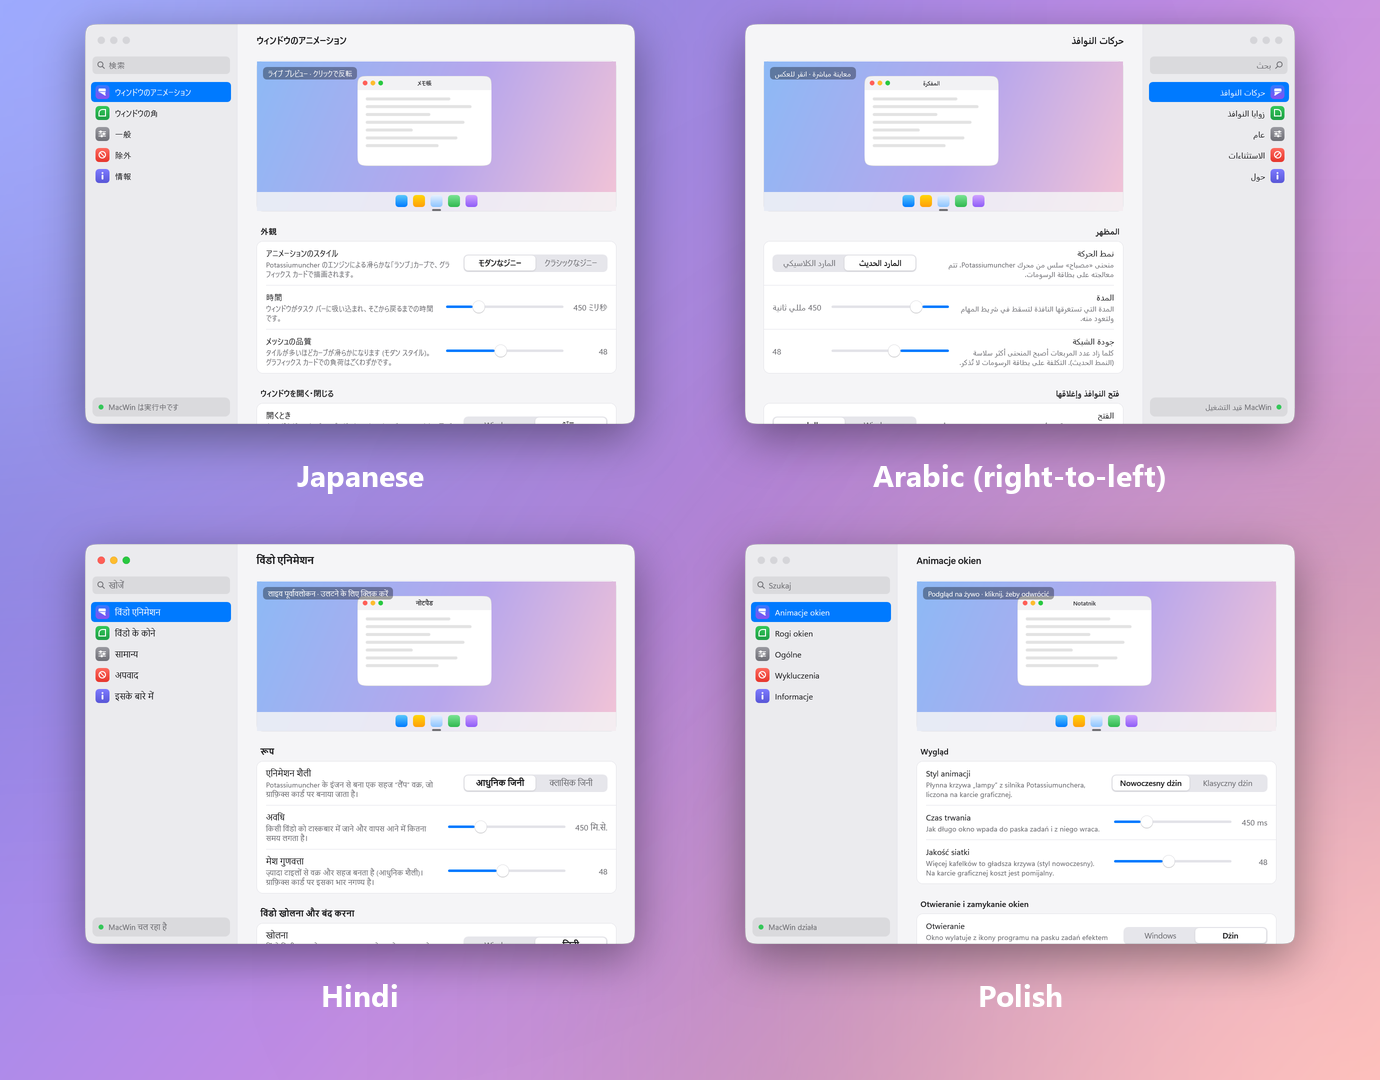
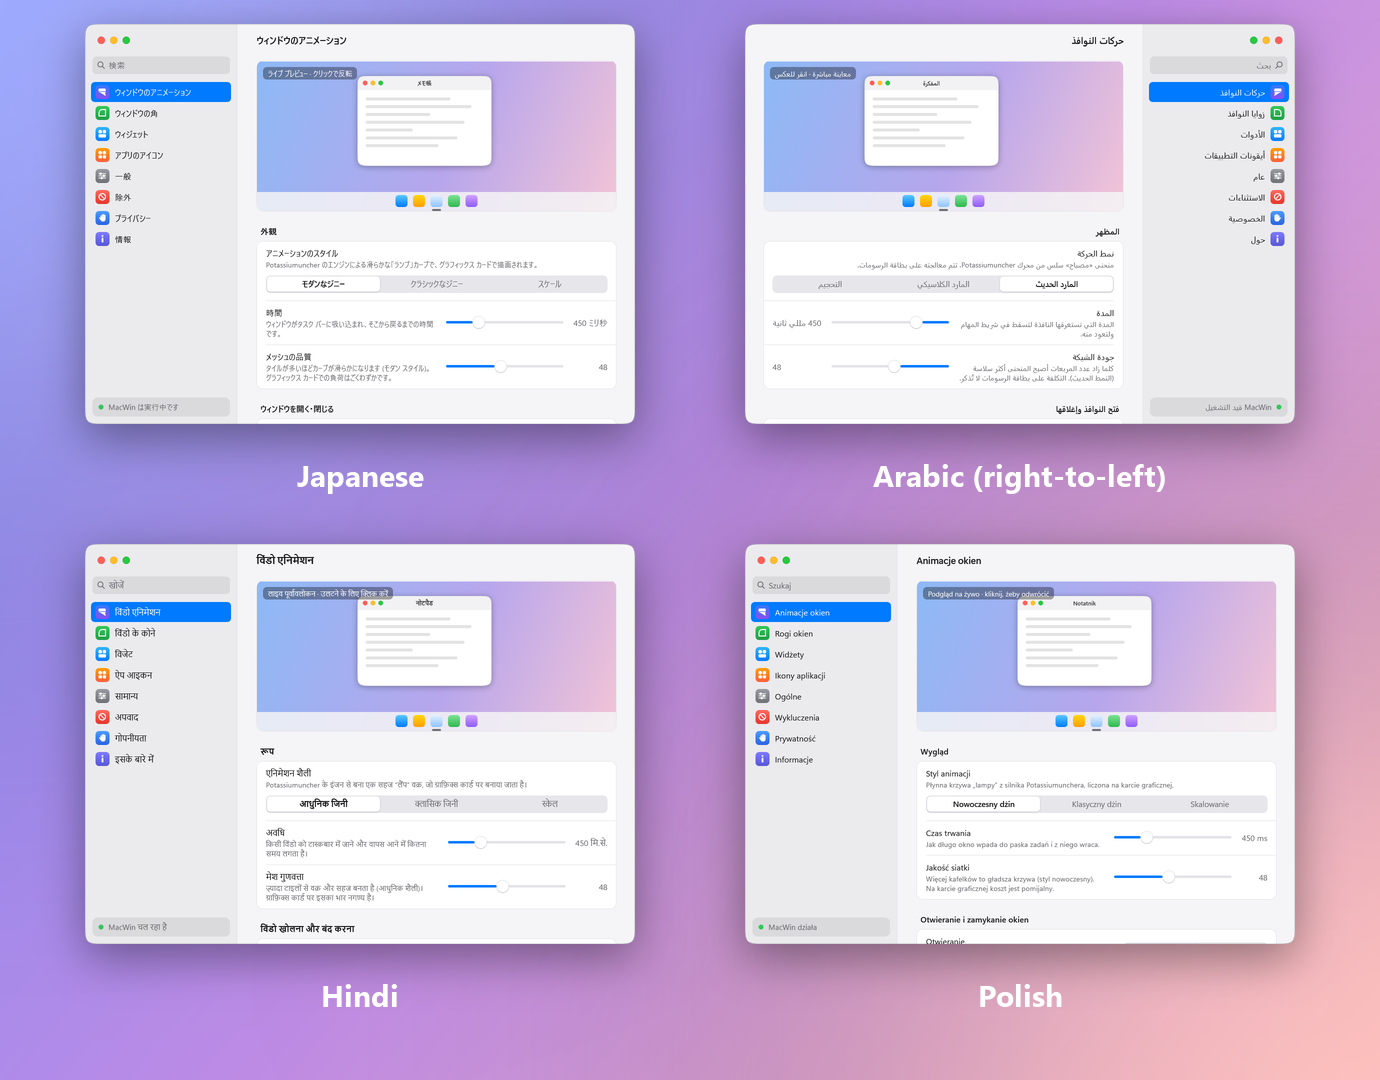
Docs: README with every feature, new screenshots
The README still described MacWin 1.0: no Privacy page, no App icons,
and the Polish one not even the Scale style. Both list every feature
now, with new screenshots of the settings (animations, corners, app
icons, privacy), the desktop widgets, the languages and a new social
preview, all made by tools/media/compose.py from --snapshot output.

--snapshot no longer lets the App icons page refresh shortcuts: a
snapshot only draws the window and must not change the PC.

diff --git a/tools/media/compose.py b/tools/media/compose.py
@@ -2,7 +2,11 @@
 
     MacWin.Settings.exe --snapshot <shots>\\en-light --lang en --theme light --transparent
     (also en-dark --theme dark, and ja, ar, hi, pl light), --export-icon <shots>\\icon.png
+    MacWin.exe --widget-snapshot <shots>\\widgets-dark --lang en --theme dark
     python tools/media/compose.py <shots>
+
+Take the snapshots while MacWin is running (the sidebar shows its state), with a few
+icons given to programs on the App Icons page.
 """
 import os
 import sys
@@ -73,6 +77,19 @@ for theme, stops, blobs, page, name in (("en-light", LIGHT, LIGHT_BLOBS, 0, "set
     with_shadow(canvas, win, (1300 - win.width) // 2, (980 - win.height) // 2 - 14)
     save(canvas, name)
 
+# Pages of their own: App Icons (dark, its list of icons) and Privacy (light).
+for theme, stops, blobs, file, name in (("en-dark", DARK, DARK_BLOBS, "page3-end.png", "app-icons.png"),
+                                        ("en-light", LIGHT, LIGHT_BLOBS, "page6.png", "privacy.png")):
+    win = Image.open(os.path.join(SHOTS, theme, file)).convert("RGBA")
+    canvas = gradient(1300, 980, stops, blobs).convert("RGBA")
+    with_shadow(canvas, win, (1300 - win.width) // 2, (980 - win.height) // 2 - 14)
+    save(canvas, name)
+
+# Desktop widgets: the first rows of the widget sheet (clock, calendar, weather, gauges, note).
+sheet = Image.open(os.path.join(SHOTS, "widgets-dark", "widgets.png")).convert("RGBA")
+k = sheet.width / 1526   # the sheet's rows, measured at 1526 px wide
+save(sheet.crop((0, 0, sheet.width, int(1010 * k))), "widgets.png")
+
 # Four languages at once (Japanese, Arabic, Hindi, Polish).
 # English labels: Pillow without libraqm cannot shape Arabic or Devanagari.
 langs = [("ja", "Japanese"), ("ar", "Arabic (right-to-left)"), ("hi", "Hindi"), ("pl", "Polish")]
@@ -103,7 +120,7 @@ big_icon = icon.resize((150, 150), Image.LANCZOS)
 canvas.alpha_composite(big_icon, (70, 120))
 d = ImageDraw.Draw(canvas)
 d.text((66, 290), "MacWin", font=font("segoeuib.ttf", 92), fill=(255, 255, 255, 255))
-d.text((72, 410), "macOS-style genie animations", font=font("segoeui.ttf", 32), fill=(230, 230, 245, 255))
-d.text((72, 452), "and window corners for Windows 11", font=font("segoeui.ttf", 32), fill=(230, 230, 245, 255))
+d.text((72, 410), "The macOS look for Windows 11:", font=font("segoeui.ttf", 32), fill=(230, 230, 245, 255))
+d.text((72, 452), "genie, corners, widgets, app icons", font=font("segoeui.ttf", 32), fill=(230, 230, 245, 255))
 d.text((72, 530), "Free & open source  ·  11 languages", font=font("segoeuib.ttf", 26), fill=(170, 190, 255, 255))
 save(canvas, "social-preview.png")

diff --git a/settings-app/App.xaml.cs b/settings-app/App.xaml.cs
@@ -13,6 +13,9 @@ public partial class App : Application
     private Mutex? _single;
     private static DateTime _lastReport = DateTime.MinValue;
 
+    /// <summary>--snapshot: the window only draws its pages; nothing on the PC is changed.</summary>
+    public static bool Snapshot { get; private set; }
+
     public static string LogPath { get; } = Path.Combine(
         Environment.GetFolderPath(Environment.SpecialFolder.LocalApplicationData), "MacWin", "settings.log");
 
@@ -64,6 +67,7 @@ public partial class App : Application
         }
 
         string? snapshotDir = ArgValue(e.Args, "--snapshot");
+        Snapshot = snapshotDir is not null;
         string? page = ArgValue(e.Args, "--page");
         // Snapshots run beside an open settings window; everything else is one window.
         if (snapshotDir is null)

diff --git a/settings-app/Pages/AppIconsPage.xaml.cs b/settings-app/Pages/AppIconsPage.xaml.cs
@@ -104,7 +104,7 @@ public partial class AppIconsPage : UserControl
             _programs = await AppIconActions.ProgramsAsync();
             Rebuild();
             // An update of a program may have put back its shortcuts with the old icon.
-            var choices = _model?.AppIcons == true ? _model.AppIconChoices.ToList() : [];
+            var choices = _model?.AppIcons == true && !App.Snapshot ? _model.AppIconChoices.ToList() : [];
             if (choices.Count > 0 && await AppIconActions.Sta(() => ApplyShortcuts(choices)) > 0)
                 TaskbarBar.Visibility = Visibility.Visible;
         }

diff --git a/README.pl.md b/README.pl.md
@@ -4,10 +4,11 @@
 
 # MacWin
 
-**Efekt dżina z macOS i zaokrąglone rogi okien (squircle) — dla Windows 11.**
+**Wygląd macOS dla Windows 11: efekt dżina, rogi squircle, widżety na pulpicie i ikony aplikacji.**
 
-Okna wpadają do paska zadań jak dżin i wylatują z niego z powrotem, tak samo się otwierają
-i zamykają, a do tego dostają miękkie rogi jak w macOS. Lekki, darmowy i open source.
+Okna wpadają do paska zadań jak dżin i wylatują z niego z powrotem, a do tego dostają miękkie
+rogi jak w macOS. Pulpit dostaje widżety z macOS, programy — wybrane przez Ciebie ikony, a
+Windows wysyła mniej danych o Tobie. Lekki, darmowy i open source.
 
 [![Najnowsza wersja](https://img.shields.io/github/v/release/IMoggsYou/MacWin?style=for-the-badge&logo=github&label=wersja&color=0A84FF)](https://github.com/IMoggsYou/MacWin/releases/latest)
 [![Pobrania](https://img.shields.io/github/downloads/IMoggsYou/MacWin/total?style=for-the-badge&label=pobrania&color=34C759)](https://github.com/IMoggsYou/MacWin/releases)
@@ -30,7 +31,8 @@ i zamykają, a do tego dostają miękkie rogi jak w macOS. Lekki, darmowy i open
 
 - 🧞 **Efekt dżina** — minimalizowane okno wlewa się do swojej ikony na pasku zadań i wypływa
   z niej przy przywracaniu; rysowane na karcie graficznej płynną krzywą „lampy” (albo
-  klasycznym lejkiem).
+  klasycznym lejkiem), a cień okna leci razem z nim. Wolisz coś spokojniejszego? Efekt
+  **Skalowanie** zmniejsza okno do ikony jednym miękkim ruchem.
 - 🪟 **Otwieranie i zamykanie** okien efektem dżina, z ikony programu i do niej.
 - ↩ **Odwracanie w locie** — kliknij jeszcze raz w trakcie, a dżin zawróci dokładnie z tego
   miejsca. Win+D animuje wszystkie okna naraz.
@@ -41,11 +43,21 @@ i zamykają, a do tego dostają miękkie rogi jak w macOS. Lekki, darmowy i open
   zdjęcie, w trzech rozmiarach, jasne albo ciemne. Leżą na pulpicie pod oknami i układają
   się w siatce jak w macOS; przeciągnij je w dowolne miejsce, prawy przycisk zmienia rozmiar
   i wygląd.
+- 🎨 **Ikony aplikacji** — daj dowolnemu programowi własną ikonę: na jego oknach, w Alt+Tab,
+  na pasku zadań i w menu Start. Dodaj ikony z macOS (`.icns`), PNG, JPEG, WebP, HEIC, ICO
+  albo weź ikonę z innego programu; MacWin przycina ją do wielkości ikon Windows i sam
+  znajduje program po nazwie pliku. Zestaw ikon w stylu macOS jest w komplecie. Zapisz
+  swoje ustawienie jako **zestaw ikon**, wróć do **ikon Windows** jednym kliknięciem albo
+  usuń wszystko.
+- 🔒 **Przełączniki prywatności** — wyłącz telemetrię Windows, identyfikator reklamowy,
+  reklamy i porady w menu Start i na ekranie blokady, wyniki z internetu w wyszukiwaniu,
+  Copilota, Recall i więcej. Każda wartość jest najpierw zapisywana, a **Przywróć** cofa
+  wszystko; Windows Update, Defender, SmartScreen i zapora nie są nigdy ruszane.
 - ⚙ **Okno ustawień jak Ustawienia systemowe macOS** — podgląd na żywo, wyszukiwarka, jasny
   i ciemny motyw, wykluczenia programów.
 - 🌍 **11 języków**, wybieranych automatycznie z Windows (zobacz [Języki](#języki)).
-- 🔄 **Automatyczne aktualizacje** z GitHuba, sprawdzane sumą SHA-256 — jednym kliknięciem
-  albo w pełni automatycznie.
+- 🔄 **Automatyczne aktualizacje** z GitHuba, sprawdzane sumą SHA-256 — instalowane w tle
+  albo proponowane z krótkim „co nowego” przy otwarciu ustawień.
 - 🚀 **Startuje razem z Windows**, siedzi w obszarze powiadomień, w spoczynku nie używa
   procesora.
 - 🛡 **Bezpieczny z założenia** — nie wchodzi do procesów systemowych ani gier z anty-cheatem,
@@ -57,8 +69,17 @@ i zamykają, a do tego dostają miękkie rogi jak w macOS. Lekki, darmowy i open
 ## Zrzuty ekranu
 
 <p align="center">
-  <img src="docs/media/settings-light.png" width="49%" alt="Ustawienia MacWin, jasny motyw">
-  <img src="docs/media/settings-dark.png" width="49%" alt="Ustawienia MacWin, ciemny motyw">
+  <img src="docs/media/settings-light.png" width="49%" alt="Animacje okien: podgląd dżina na żywo i trzy style">
+  <img src="docs/media/settings-dark.png" width="49%" alt="Rogi okien w ciemnym motywie: squircle z macOS albo rogi Windows 11">
+</p>
+
+<p align="center">
+  <img src="docs/media/app-icons.png" width="49%" alt="Ikony aplikacji: ikony z macOS dla Signala, Spotify, Steama, Telegrama i VS Code">
+  <img src="docs/media/privacy.png" width="49%" alt="Prywatność: przełączniki danych diagnostycznych Windows, z kopią i przywracaniem">
+</p>
+
+<p align="center">
+  <img src="docs/media/widgets.png" width="860" alt="Widżety na pulpicie: zegary, kalendarze, pogoda, wskaźniki systemu i notatka">
 </p>
 
 ## Instalacja
@@ -82,7 +103,7 @@ i zamykają, a do tego dostają miękkie rogi jak w macOS. Lekki, darmowy i open
 | --- | --- |
 | Windows | Windows 11 (zalecany 22H2 lub nowszy), 64-bitowy **x64** |
 | Grafika | Dowolna: AMD, Intel, NVIDIA albo żadna (Direct3D 11 / WARP) |
-| Dysk | ok. 5 MB (+ .NET 10 Desktop Runtime dla okna ustawień) |
+| Dysk | ok. 20 MB, głównie dołączone ikony (+ .NET 10 Desktop Runtime dla okna ustawień) |
 | Jeszcze nieobsługiwane | Windows na ARM (komputery ze Snapdragonem) |
 
 ### Odinstalowanie
@@ -143,6 +164,8 @@ MacWin niczego nie zbiera. Łączy się z internetem tylko w dwóch sprawach:
   nie jest wysyłane i nie trzeba żadnego konta ani klucza. Część z lokalizacją wyłącza
   przełącznik w Windows (**Ustawienia → Prywatność i zabezpieczenia → Lokalizacja**).
 
+Ikony aplikacji i strona Prywatność działają w całości na Twoim komputerze.
+
 ## Pytania i odpowiedzi
 
 <details>
@@ -175,6 +198,30 @@ przy każdym logowaniu.
 
 Okna z systemowym paskiem tytułu psują się po zmianie kształtu. MacWin daje squircle
 dżinowi, swojemu oknu i programom, które same rysują pasek tytułu.
+</details>
+
+<details>
+<summary><b>Jak przywrócić programowi jego własną ikonę?</b></summary>
+
+W **Ustawienia → Ikony aplikacji** wybierz **Brak programu** obok ikony albo naciśnij
+**Użyj ikon Windows**, żeby wszystkie programy dostały z powrotem swoje ikony (Twoje ikony
+zostają na liście). Przypięte ikony na pasku zadań odświeżają się po **Uruchom ponownie
+Eksplorator**.
+</details>
+
+<details>
+<summary><b>Czy strona Prywatność zepsuje Windows Update albo antywirusa?</b></summary>
+
+Nie. Ma tylko przełączniki telemetrii, reklam i podobnych funkcji, nigdy Windows Update,
+Microsoft Defendera, SmartScreena, zapory ani UAC. Każda wartość jest zapisywana przed
+zmianą, a **Przywróć** odtwarza dokładnie to, co było.
+</details>
+
+<details>
+<summary><b>Czy działa z kilkoma monitorami i automatycznie ukrywanym paskiem zadań?</b></summary>
+
+Tak. Ukryty pasek zadań wysuwa się, gdy okno się minimalizuje; przy kilku monitorach dżin
+może celować w pasek zadań na monitorze okna (Ustawienia → Animacje okien).
 </details>
 
 ## Budowanie ze źródeł

diff --git a/README.md b/README.md
@@ -4,10 +4,11 @@
 
 # MacWin
 
-**The macOS genie effect and squircle window corners — for Windows 11.**
+**The macOS look for Windows 11: the genie effect, squircle corners, desktop widgets and app icons.**
 
-Windows fall into the taskbar like a genie and fly back out, open and close the same way,
-and get soft macOS-style corners. Light, free and open source.
+Windows fall into the taskbar like a genie and fly back out, and get soft macOS-style corners.
+Your desktop gets macOS widgets, your programs get the icons you like, and Windows gets a
+little quieter about your data. Light, free and open source.
 
 [![Latest release](https://img.shields.io/github/v/release/IMoggsYou/MacWin?style=for-the-badge&logo=github&label=release&color=0A84FF)](https://github.com/IMoggsYou/MacWin/releases/latest)
 [![Downloads](https://img.shields.io/github/downloads/IMoggsYou/MacWin/total?style=for-the-badge&color=34C759)](https://github.com/IMoggsYou/MacWin/releases)
@@ -41,10 +42,21 @@ and get soft macOS-style corners. Light, free and open source.
 - 🗓 **Desktop widgets** — a clock, a calendar, the weather, system gauges, a note and a
   photo, in three sizes, light or dark. They stay on the desktop under your windows and
   snap to a grid like on macOS; drag them anywhere, right-click for size and look.
+- 🎨 **App icons** — give any program an icon of your own: on its windows, in Alt+Tab, on
+  the taskbar and in the Start menu. Drop in macOS `.icns`, PNG, JPEG, WebP, HEIC, ICO or
+  take one from another program; MacWin trims it to the size of Windows icons and finds
+  the program from the file name. A set of macOS-style icons comes included. Save your
+  setup as an **icon set**, switch back to the **Windows icons** in one click, or remove
+  everything.
+- 🔒 **Privacy switches** — turn off Windows telemetry, the advertising ID, ads and tips in
+  Start and on the lock screen, web results in search, Copilot, Recall and more. Every value
+  is backed up first and **Restore** undoes it all; Windows Update, Defender, SmartScreen
+  and the firewall are never touched.
 - ⚙ **A settings window like macOS System Settings** — live preview, search, light and
   dark mode, per-app exclusions.
 - 🌍 **11 languages**, picked automatically from Windows (see [Languages](#languages)).
-- 🔄 **Automatic updates** from GitHub, verified with SHA-256 — one click, or fully automatic.
+- 🔄 **Automatic updates** from GitHub, verified with SHA-256 — installed in the background,
+  or offered with a short "what's new" when you open the settings.
 - 🚀 **Starts with Windows**, sits in the notification area, uses no CPU while idle.
 - 🛡 **Safe by design** — stays out of system processes and anti-cheat games, falls back
   to the normal Windows animation whenever anything goes wrong, and
@@ -55,8 +67,17 @@ and get soft macOS-style corners. Light, free and open source.
 ## Screenshots
 
 <p align="center">
-  <img src="docs/media/settings-light.png" width="49%" alt="MacWin settings, light mode">
-  <img src="docs/media/settings-dark.png" width="49%" alt="MacWin settings, dark mode">
+  <img src="docs/media/settings-light.png" width="49%" alt="Window Animations: the live genie preview and the three styles">
+  <img src="docs/media/settings-dark.png" width="49%" alt="Window Corners in dark mode: macOS squircle or Windows 11 corners">
+</p>
+
+<p align="center">
+  <img src="docs/media/app-icons.png" width="49%" alt="App Icons: macOS icons given to Signal, Spotify, Steam, Telegram and VS Code">
+  <img src="docs/media/privacy.png" width="49%" alt="Privacy: switches for Windows diagnostic data, each backed up and restorable">
+</p>
+
+<p align="center">
+  <img src="docs/media/widgets.png" width="860" alt="Desktop widgets: clocks, calendars, weather, system gauges and a note">
 </p>
 
 ## Install
@@ -80,7 +101,7 @@ and get soft macOS-style corners. Light, free and open source.
 | --- | --- |
 | Windows | Windows 11 (22H2 or newer recommended), 64-bit **x64** |
 | Graphics | Any: AMD, Intel, NVIDIA, or none (Direct3D 11 / WARP) |
-| Disk | ~5 MB (+ the .NET 10 Desktop Runtime for the settings window) |
+| Disk | ~20 MB, most of it the included icons (+ the .NET 10 Desktop Runtime for the settings window) |
 | Not supported yet | Windows on ARM (Snapdragon PCs) |
 
 ### Uninstall
@@ -140,6 +161,8 @@ MacWin collects nothing. It goes online for two things only:
   and there is no account or key. Windows' own location switch
   (**Settings → Privacy & security → Location**) turns the location part off.
 
+App icons and the Privacy page work entirely on your PC.
+
 ## FAQ
 
 <details>
@@ -172,6 +195,22 @@ sign-in.
 
 Windows with the system title bar break when their shape is changed. MacWin gives the
 squircle to the genie, its own window and apps that draw their own title bar.
+</details>
+
+<details>
+<summary><b>How do I get a program's own icon back?</b></summary>
+
+In **Settings → App Icons** pick **No program** next to the icon, or press **Use Windows
+icons** to give every program its own icon back (your icons stay in the list). Pinned
+taskbar icons refresh after **Restart File Explorer**.
+</details>
+
+<details>
+<summary><b>Will the Privacy page break Windows Update or my antivirus?</b></summary>
+
+No. It only has switches for telemetry, ads and similar features, never for Windows Update,
+Microsoft Defender, SmartScreen, the firewall or UAC. Each value is backed up before it
+changes, and **Restore** puts back exactly what was there.
 </details>
 
 <details>
